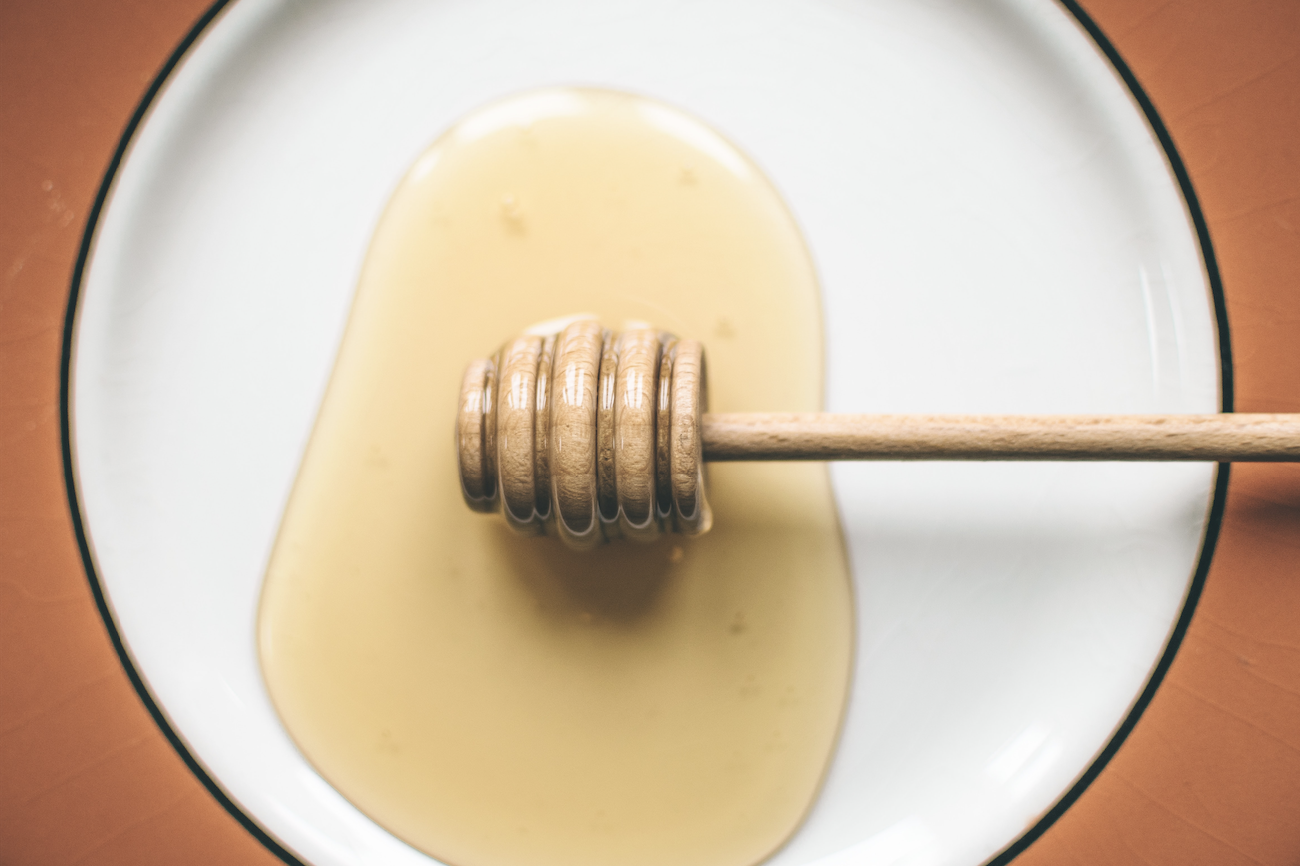
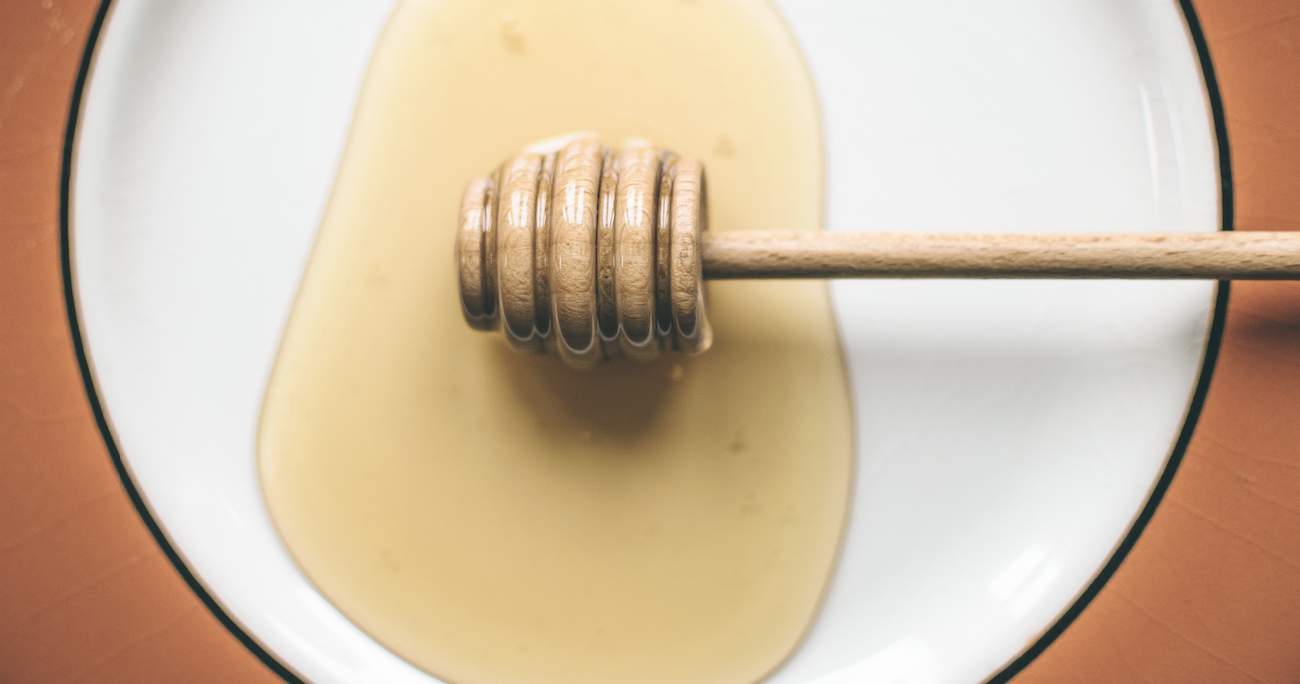
finished deciding on pictures and image placement

diff --git a/app/assets/stylesheets/pages/_home.scss b/app/assets/stylesheets/pages/_home.scss
@@ -16,7 +16,7 @@
   #about {
     background: image-url('plate2.png');
     background-size: cover;
-    height: 700px;
+    height: 650px;
   }
 }
 
